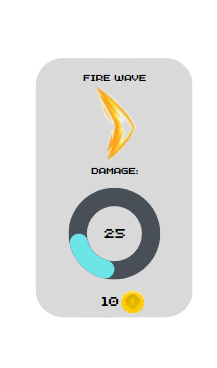
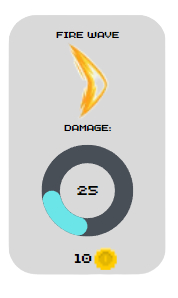
introduce weapon menu

diff --git a/Project/game.py b/Project/game.py
@@ -577,6 +577,15 @@ start_button = Button(screen_width // 2 - 350, screen_height //
 exit_button = Button(screen_width // 2 - 20, screen_height //
                      2, pygame.image.load('Project/img/exit_btn.png'))
 
+small_shot_card = Button(70, screen_height // 2 - 100,
+                         pygame.image.load('Project/img/small_shot_card.png'))
+medium_shot_card = Button(300, screen_height // 2 - 100,
+                          pygame.image.load('Project/img/medium_shot_card.png'))
+large_shot_card = Button(530, screen_height // 2 - 100,
+                         pygame.image.load('Project/img/large_shot_card.png'))
+xl_shot_card = Button(760, screen_height // 2 - 100,
+                      pygame.image.load('Project/img/xl_shot_card.png'))
+
 
 run = True
 
@@ -596,25 +605,29 @@ while run:
             menu = False
     elif level == final_level:
         world.draw()
+        draw_text('X ' + str(score), font_score,
+                  text_col, tile_size - 10, 10)
+        coin_grp.draw(screen)
 
-        # if wepon_menu:
+        if wepon_menu:
+            small_shot_card.draw()
+            medium_shot_card.draw()
+            large_shot_card.draw()
+            xl_shot_card.draw()
+        else:
+            if is_won == False:
 
-        if is_won == False:
+                player.update()
+                shot_grp.update()
+                shot_grp.draw(screen)
 
-            player.update()
-            shot_grp.update()
-            shot_grp.draw(screen)
+                boss.update()
 
-            boss.update()
-
-            draw_text('X ' + str(score), font_score,
-                      text_col, tile_size - 10, 10)
-            coin_grp.draw(screen)
-        elif lifes != 0:
-            draw_text('YOU WIN!', font_game_over, win_color,
-                      (screen_width // 2) - 140, screen_height // 2)
-            if restart_button.draw():
-                player.restart_game()
+            elif lifes != 0:
+                draw_text('YOU WIN!', font_game_over, win_color,
+                          (screen_width // 2) - 140, screen_height // 2)
+                if restart_button.draw():
+                    player.restart_game()
     else:
         world.draw()
 
